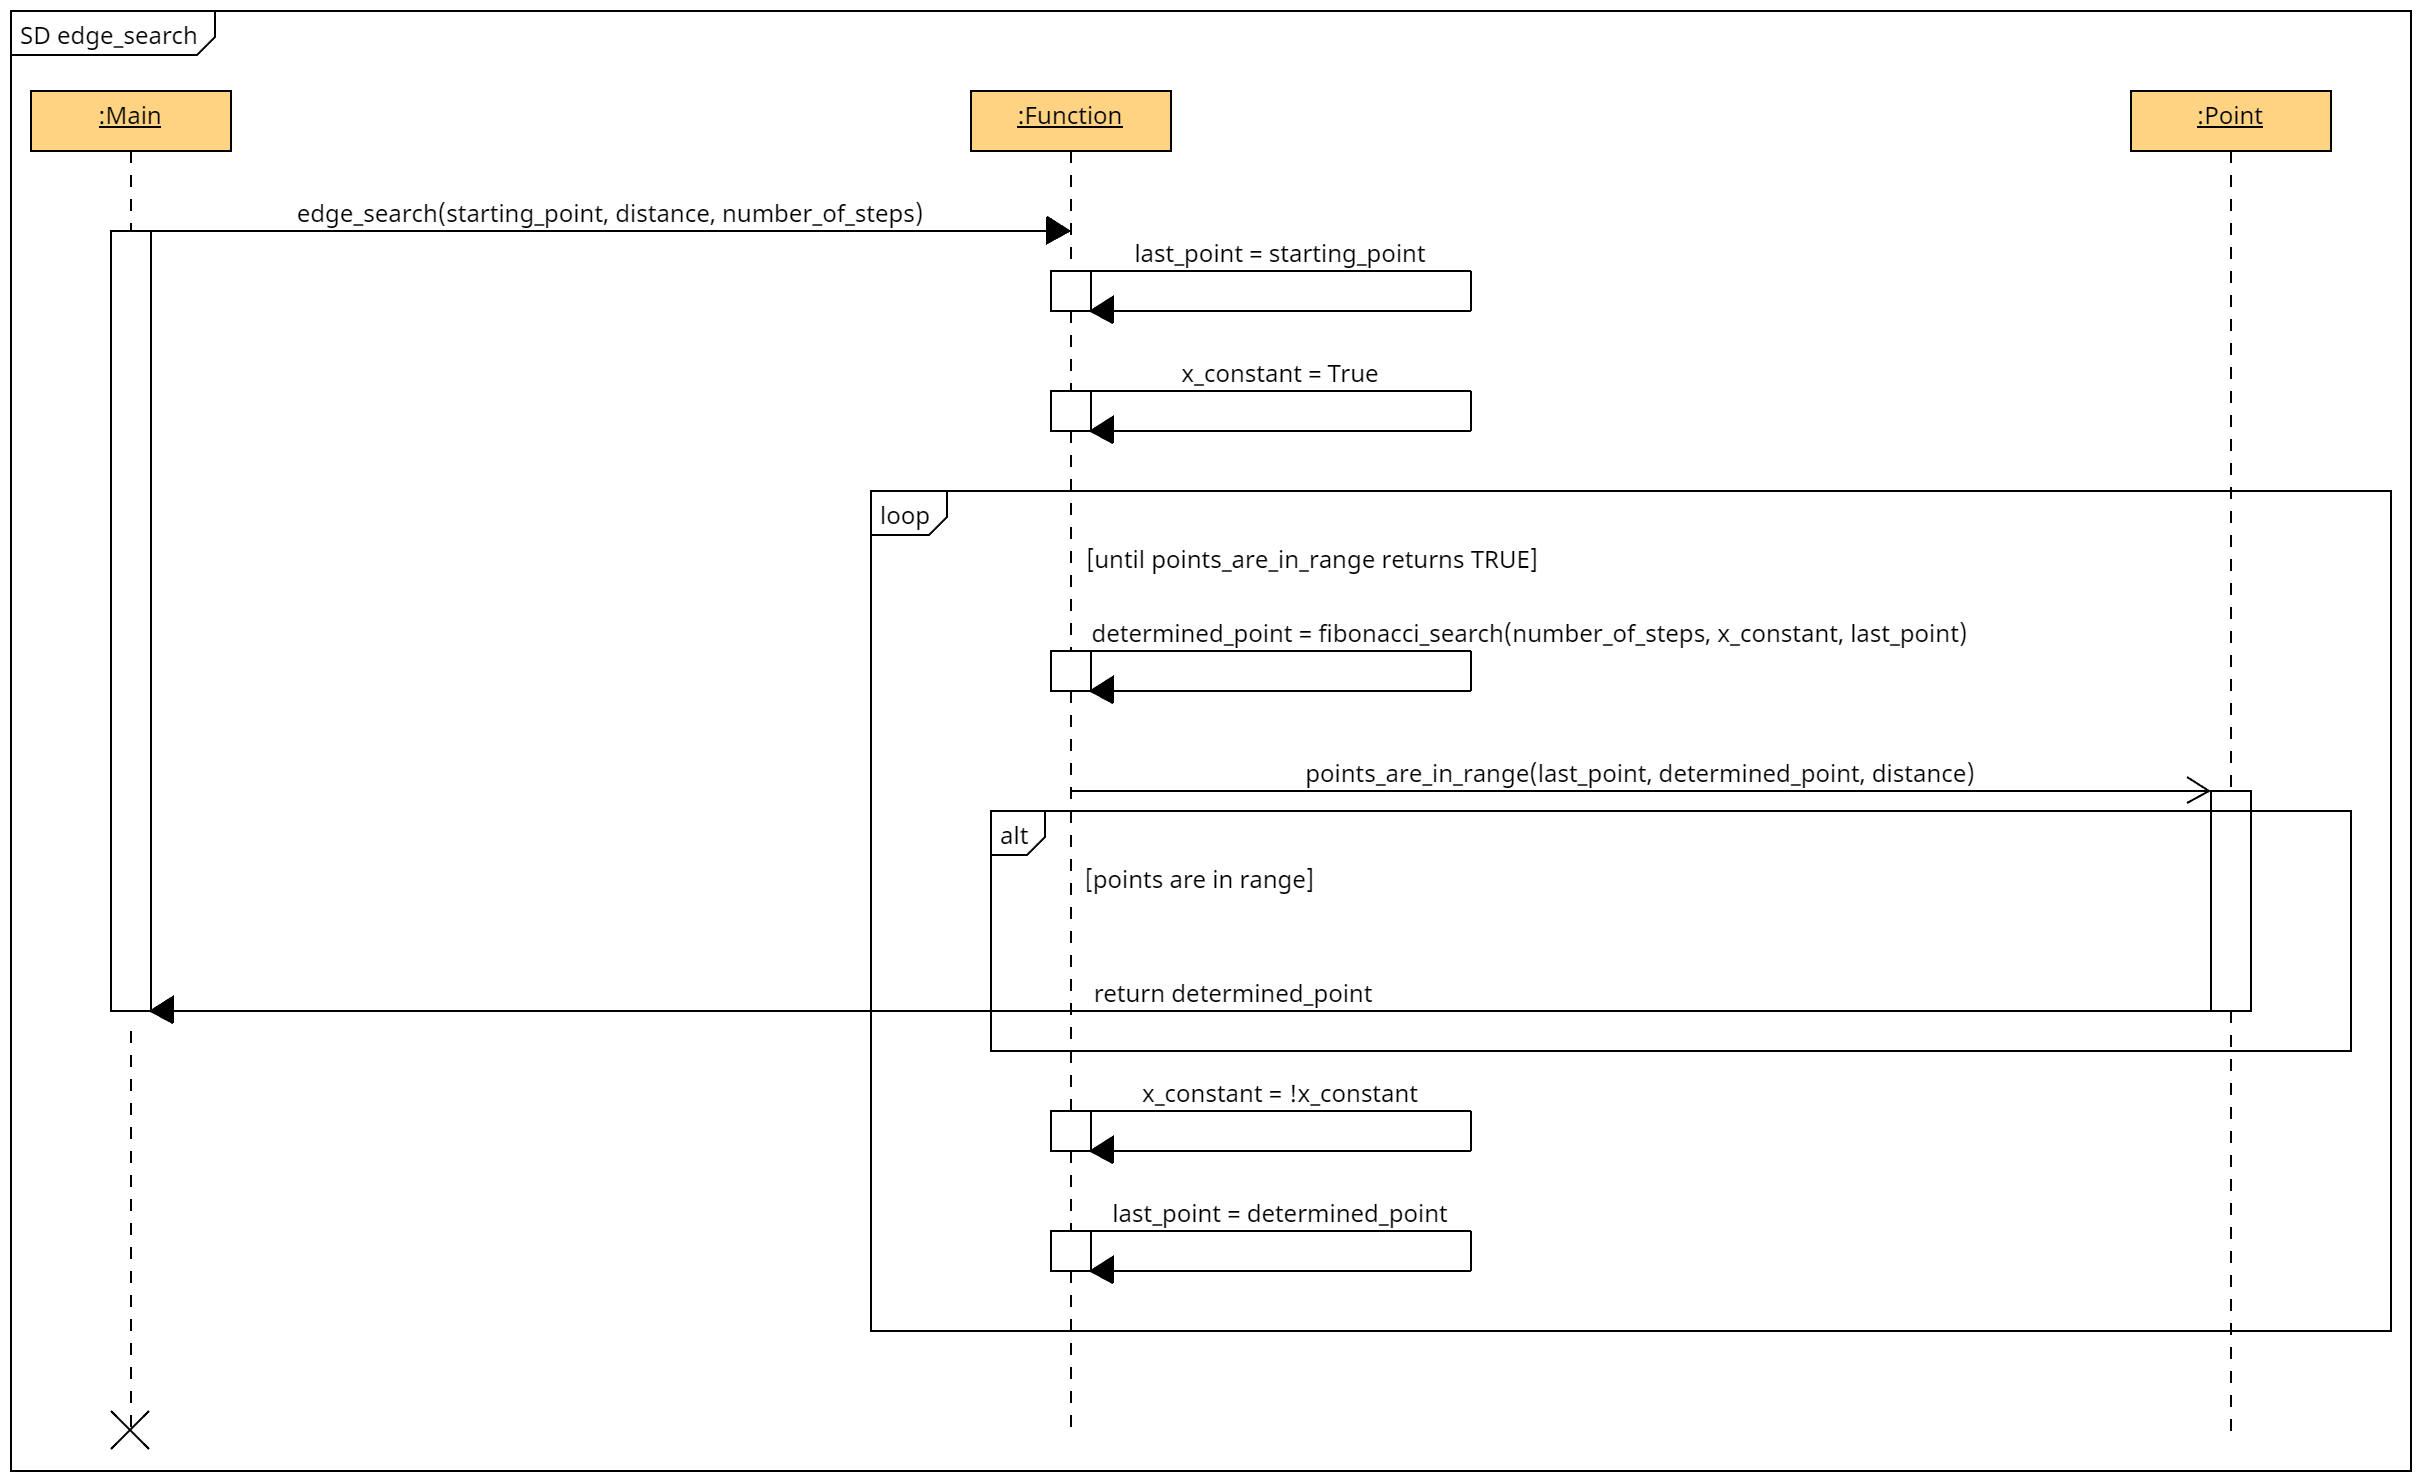
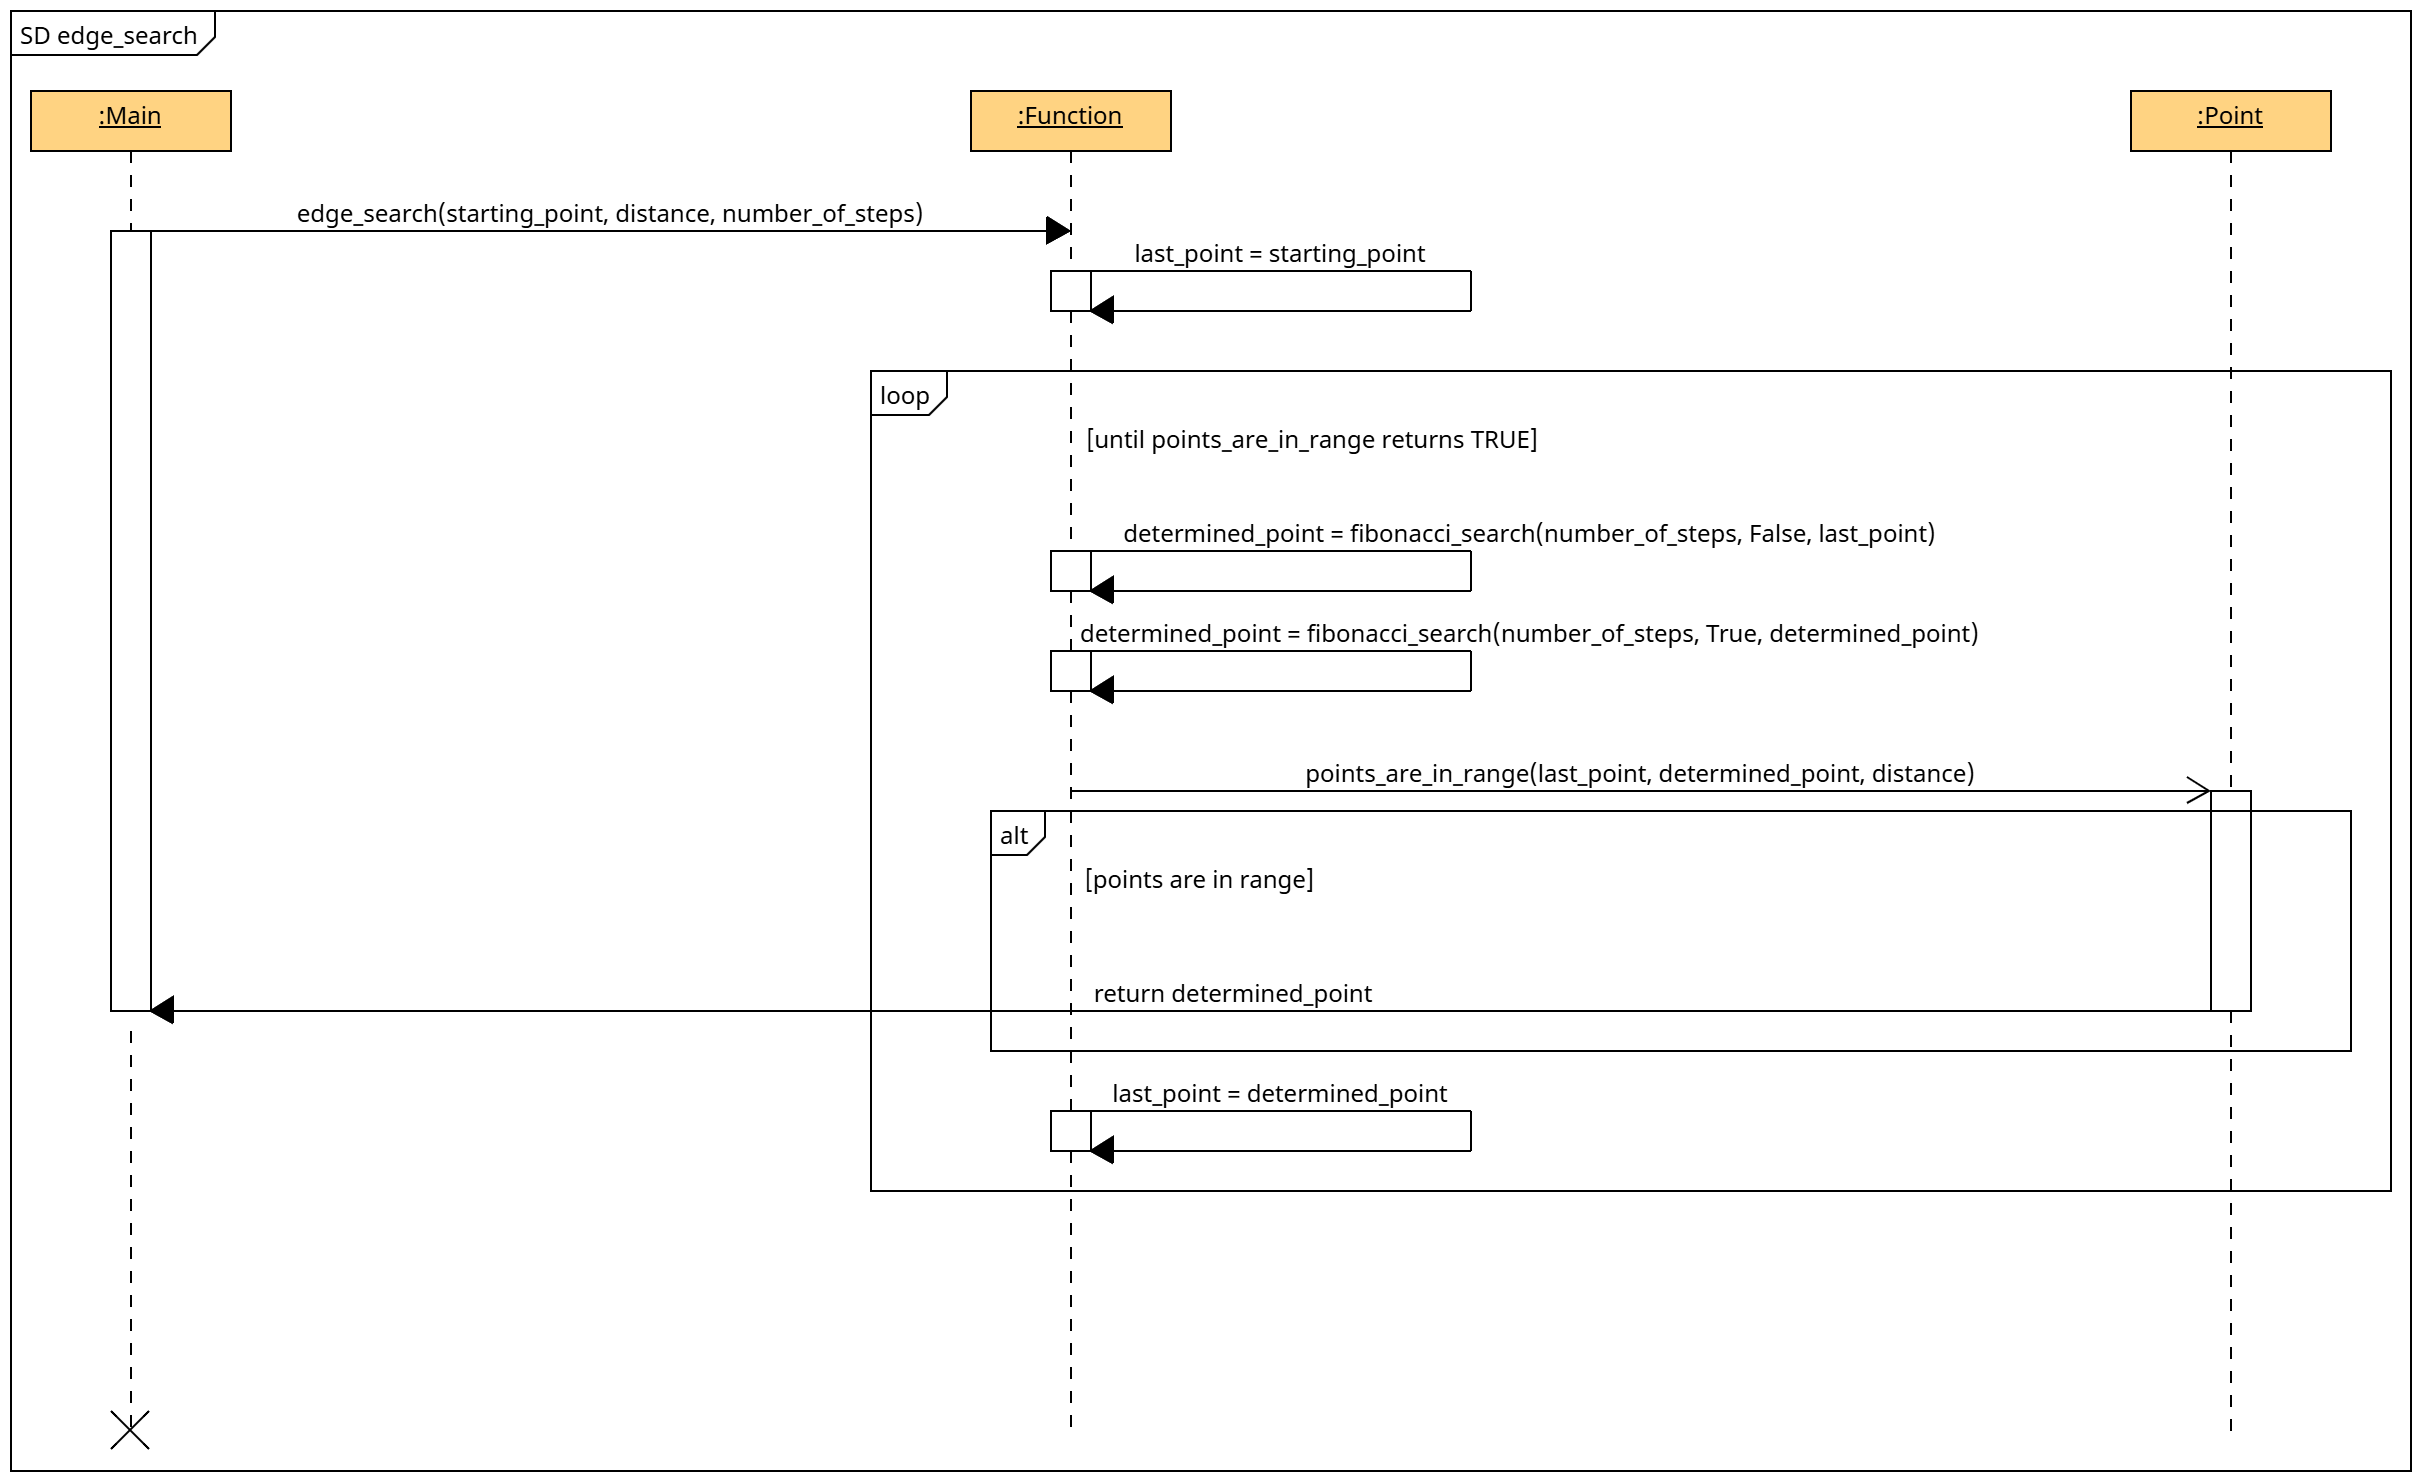
Reworked the edge_search method to go through all axis before checking for break condition. Also updated the respective sequence diagram accordingly.

diff --git a/src/classes/function.py b/src/classes/function.py
@@ -245,20 +245,17 @@ class Function(ABC):
         # Initialize the last determined point as the starting point
         last_point: Point = starting_point
 
-        # initialize the boolean indicating which variable shall be constant
-        x_constant: bool = True
-
         # Determine new points until two consecutive points are in range of one another
         while True:
+            # FInd the minimum on both the X and the Y scale
             determined_point: Point = self.fibonacci_search(
-                number_of_steps, x_constant, last_point)
+                number_of_steps, False, last_point)
+            determined_point: Point = self.fibonacci_search(
+                number_of_steps, True, determined_point)
 
             # Break the loop if two points are in range to one another
             if Point.points_are_in_range(last_point, determined_point, distance):
                 break
-
-            # Negate the boolean indicating which variable shall be constant
-            x_constant = not x_constant
 
             # Update the last visited point
             last_point = determined_point
